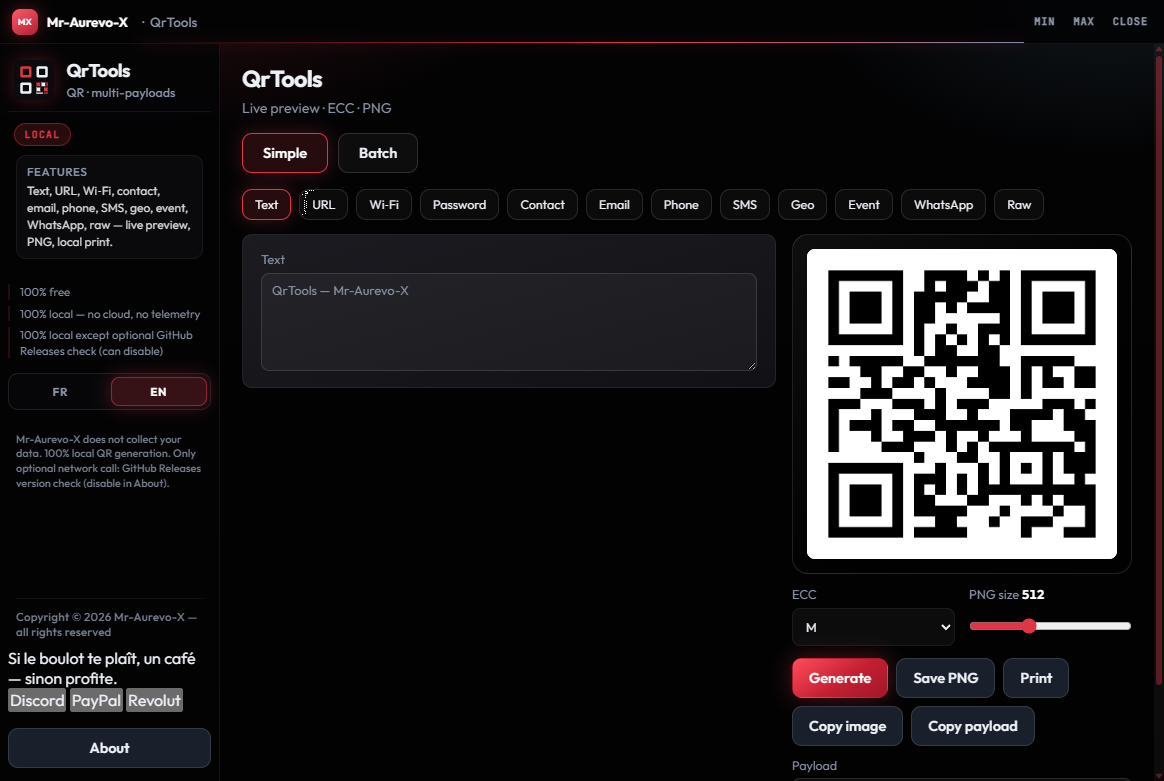
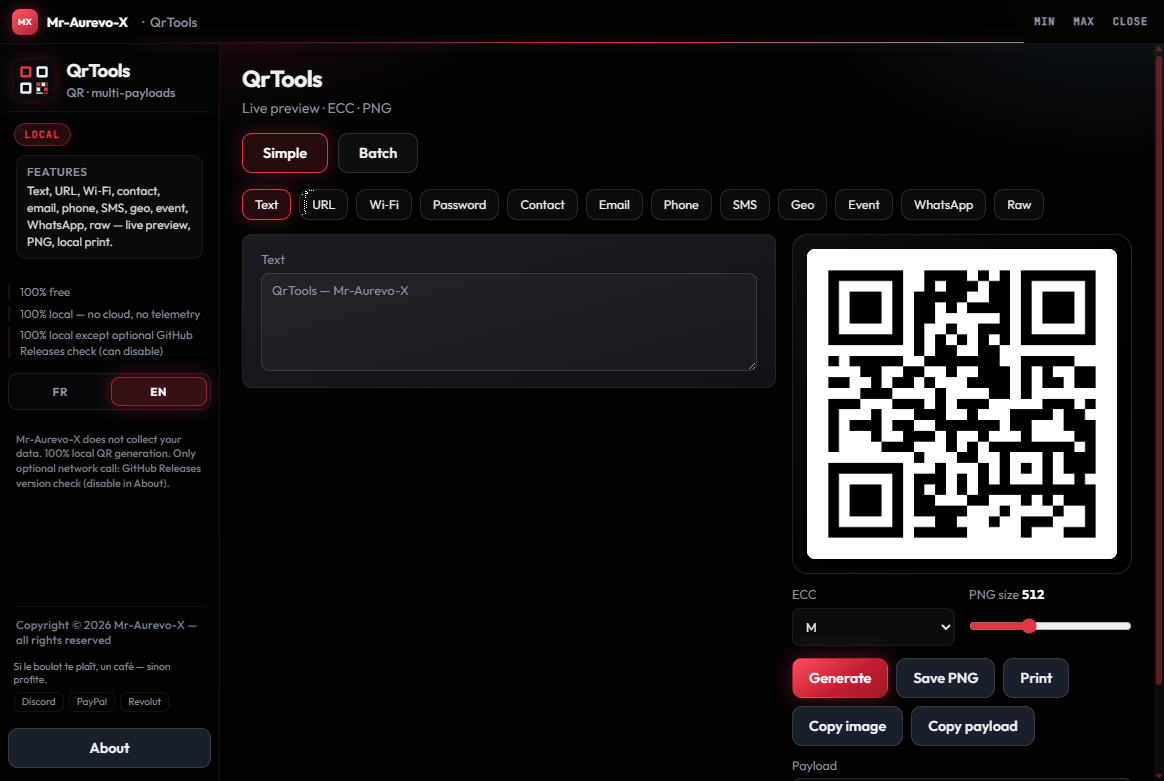
fix support strip Void Glow outline styling.

Changed region(s): [[0.0, 0.7682, 0.1856, 0.9219]]

diff --git a/ui/void-glow-app.css b/ui/void-glow-app.css
@@ -220,3 +220,47 @@ body.theme-void-glow .about-card {
   max-height: min(88vh, 880px);
   box-sizing: border-box;
 }
+
+/* Optional support strip (hub-support-dons) — outline Void Glow, not .btn fill */
+body.theme-void-glow .hub-support {
+  display: flex;
+  flex-direction: column;
+  gap: 0.35rem;
+  padding: 0 0.35rem;
+  margin-top: 0.25rem;
+}
+
+body.theme-void-glow .hub-support-note {
+  margin: 0;
+  font-size: 0.64rem;
+  line-height: 1.3;
+  color: var(--muted);
+}
+
+body.theme-void-glow .hub-support-links {
+  display: flex;
+  flex-wrap: wrap;
+  gap: 0.3rem;
+}
+
+body.theme-void-glow .hub-support-btn {
+  appearance: none;
+  border: 1px solid var(--border, var(--line, rgba(255, 255, 255, 0.12)));
+  background: transparent !important;
+  color: var(--muted);
+  border-radius: 6px;
+  padding: 0.2rem 0.45rem;
+  font: inherit;
+  font-size: 0.62rem;
+  line-height: 1.2;
+  cursor: pointer;
+  box-shadow: none !important;
+  transition: color 0.2s, border-color 0.2s, box-shadow 0.25s;
+}
+
+body.theme-void-glow .hub-support-btn:hover {
+  color: var(--text);
+  border-color: rgba(224, 53, 69, 0.55);
+  box-shadow: 0 0 16px rgba(224, 53, 69, 0.25) !important;
+  transform: none !important;
+}
